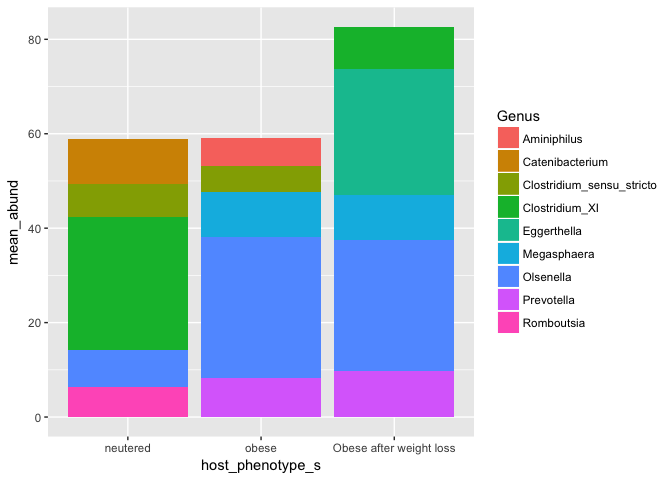
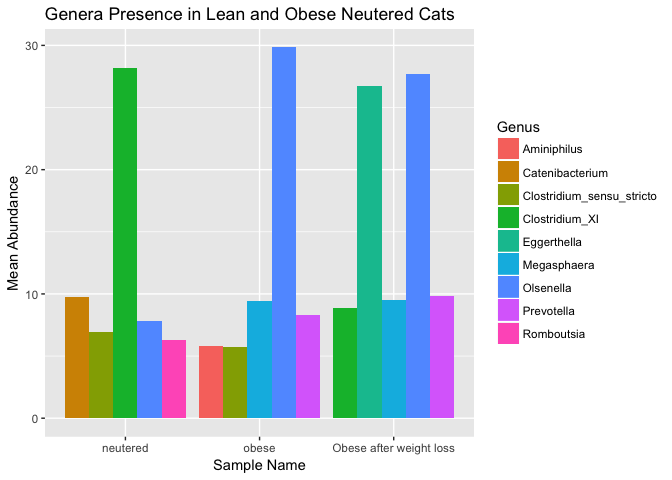
Add updated md and figures

diff --git a/Final_Report.md b/Final_Report.md
@@ -1,7 +1,7 @@
-Final Report: Your Title Here
+Final Report: Microbial Analysis in Lean and Obese Neutered Cats
 ================
-Don Francisco
-November 22, 2017
+Isabella Finney
+December 14, 2017
 
 Introduction
 ============
@@ -32,86 +32,75 @@ Results
 Subsections are ok in the results section too
 ---------------------------------------------
 
-    ## Warning in estimate_richness(physeq, split = TRUE, measures = measures): The data you have provided does not have
-    ## any singletons. This is highly suspicious. Results of richness
-    ## estimates (for example) are probably unreliable, or wrong, if you have already
-    ## trimmed low-abundance taxa from the data.
-    ## 
-    ## We recommended that you find the un-trimmed data and retry.
-
 ![](Final_Report_files/figure-markdown_github-ascii_identifiers/boxplot-of-alpha-diversity-1.png)
 
-**Figure 1**: Alpha diversity measures of the three sample types, neutered obese and lean cats.
-
-![](Final_Report_files/figure-markdown_github-ascii_identifiers/plot-alpha-diversty-by-sex-1.png)
-
-**Figure 2**: Alpha diversity measures of the three sample types, neutered obese and lean cats, colored by gender. Overall, there is a substantial amount of microbial diversty present among males and females in each sample type. Interestingly, the communities present among males in neutered and obese cats showed a higher measure of Shannon diverty.
+**Figure 1**: Alpha diversity measures of the three sample types, neutered obese and lean cats. Overall, there is a substantial amount of microbial diversty present among each sample type.
 
 ![](Final_Report_files/figure-markdown_github-ascii_identifiers/plot-richness-by-host-phenotype-1.png)
 
-**Figure 3**:
+**Figure 2**: Alpha richness of each particular sample type.
 
 ![](Final_Report_files/figure-markdown_github-ascii_identifiers/plot-phylogenetic-tree-1.png)
 
-**Figure 4**: This is an inferred phylogenetic tree of sequences present within the three sample types. The tips of the tree represents samples where each particular taxa occurred. The tree itself represents the maximum likelihood of phylogengy.
+**Figure 3**: This is an inferred phylogenetic tree of sequences present within the three sample types. The tips of the tree represents samples where each particular taxa occurred. The tree itself represents the maximum likelihood of phylogengy.
 
     ## Square root transformation
     ## Wisconsin double standardization
     ## Run 0 stress 0 
     ## Run 1 stress 0 
-    ## ... Procrustes: rmse 0.2021366  max resid 0.4554891 
+    ## ... Procrustes: rmse 0.1932954  max resid 0.4034588 
     ## Run 2 stress 0 
-    ## ... Procrustes: rmse 0.1940044  max resid 0.4724872 
+    ## ... Procrustes: rmse 0.1962391  max resid 0.5024874 
     ## Run 3 stress 0 
-    ## ... Procrustes: rmse 0.1915036  max resid 0.4433332 
+    ## ... Procrustes: rmse 0.199269  max resid 0.5070792 
     ## Run 4 stress 0 
-    ## ... Procrustes: rmse 0.1983969  max resid 0.4732628 
+    ## ... Procrustes: rmse 0.1999771  max resid 0.482079 
     ## Run 5 stress 0 
-    ## ... Procrustes: rmse 0.1956069  max resid 0.4969752 
+    ## ... Procrustes: rmse 0.1985765  max resid 0.4478094 
     ## Run 6 stress 0 
-    ## ... Procrustes: rmse 0.2025706  max resid 0.4957503 
+    ## ... Procrustes: rmse 0.2004875  max resid 0.4832637 
     ## Run 7 stress 0 
-    ## ... Procrustes: rmse 0.1953478  max resid 0.4563855 
+    ## ... Procrustes: rmse 0.1902497  max resid 0.5106576 
     ## Run 8 stress 0 
-    ## ... Procrustes: rmse 0.2012722  max resid 0.4592369 
+    ## ... Procrustes: rmse 0.1958289  max resid 0.4371787 
     ## Run 9 stress 0 
-    ## ... Procrustes: rmse 0.196237  max resid 0.4677451 
+    ## ... Procrustes: rmse 0.1934301  max resid 0.4630615 
     ## Run 10 stress 0 
-    ## ... Procrustes: rmse 0.186782  max resid 0.48226 
+    ## ... Procrustes: rmse 0.1944133  max resid 0.4496902 
     ## Run 11 stress 0 
-    ## ... Procrustes: rmse 0.202516  max resid 0.4691742 
+    ## ... Procrustes: rmse 0.200773  max resid 0.490211 
     ## Run 12 stress 0 
-    ## ... Procrustes: rmse 0.1991476  max resid 0.4916595 
+    ## ... Procrustes: rmse 0.2005651  max resid 0.4796445 
     ## Run 13 stress 0 
-    ## ... Procrustes: rmse 0.1949483  max resid 0.4886636 
+    ## ... Procrustes: rmse 0.1997174  max resid 0.4574968 
     ## Run 14 stress 0 
-    ## ... Procrustes: rmse 0.2022027  max resid 0.4854359 
+    ## ... Procrustes: rmse 0.1969318  max resid 0.5284381 
     ## Run 15 stress 0 
-    ## ... Procrustes: rmse 0.2015296  max resid 0.4950734 
+    ## ... Procrustes: rmse 0.2036051  max resid 0.4827289 
     ## Run 16 stress 0 
-    ## ... Procrustes: rmse 0.1940311  max resid 0.4369521 
+    ## ... Procrustes: rmse 0.1953447  max resid 0.4429638 
     ## Run 17 stress 0 
-    ## ... Procrustes: rmse 0.1991258  max resid 0.5074273 
+    ## ... Procrustes: rmse 0.2026794  max resid 0.4887594 
     ## Run 18 stress 0 
-    ## ... Procrustes: rmse 0.198115  max resid 0.5167274 
+    ## ... Procrustes: rmse 0.1960359  max resid 0.4572082 
     ## Run 19 stress 0 
-    ## ... Procrustes: rmse 0.2006332  max resid 0.4799402 
+    ## ... Procrustes: rmse 0.1967695  max resid 0.4641836 
     ## Run 20 stress 0 
-    ## ... Procrustes: rmse 0.1986183  max resid 0.5105295 
+    ## ... Procrustes: rmse 0.1977759  max resid 0.4589281 
     ## *** No convergence -- monoMDS stopping criteria:
     ##     20: stress < smin
 
 ![](Final_Report_files/figure-markdown_github-ascii_identifiers/plot-ordination-of-taxa-by-sample-1.png)
 
-**FIGUREEEEEEE**:
+**Figure 4**: Plot ordination of the taxa present from each type of neutered cat.
 
 ![](Final_Report_files/figure-markdown_github-ascii_identifiers/barplot-of-phylum-1.png)
 
-\*\*FIGUREEEEEEE\*:
+**Figure 5**: Bar plot representing the mean abundance of each phyla present in each sample type (lean netured, obese neutered, and obese and neutered with energy restriction).
 
 ![](Final_Report_files/figure-markdown_github-ascii_identifiers/barplot-of-genus-1.png)
 
-**FIGUREEEEE**:
+**Figure 6**: Bar plot representing the mean abundance of the top 5 genera present in each sample type (lean netured, obese neutered, and obese and neutered with energy restriction).
 
 | Genus                       |   neutered|      obese|  Obese after weight loss|
 |:----------------------------|----------:|----------:|------------------------:|
@@ -136,7 +125,7 @@ Subsections are ok in the results section too
 | Streptococcus               |         NA|   3.694444|                       NA|
 | Turicibacter                |   5.453125|         NA|                       NA|
 
-**FIGUREEEEE**:
+**Table 1**: Summary table showing the mean abundance values for the top 15 genera present among all three sample types.
 
 In addition to a minimum of 5-10 figures/tables (and associated captions), you should include sufficient text in this section to describe what your findings were. Remember that in the results section you just describe what you found, but you don't interpret it - that happens in the discussion. 2-3 pages.
 
